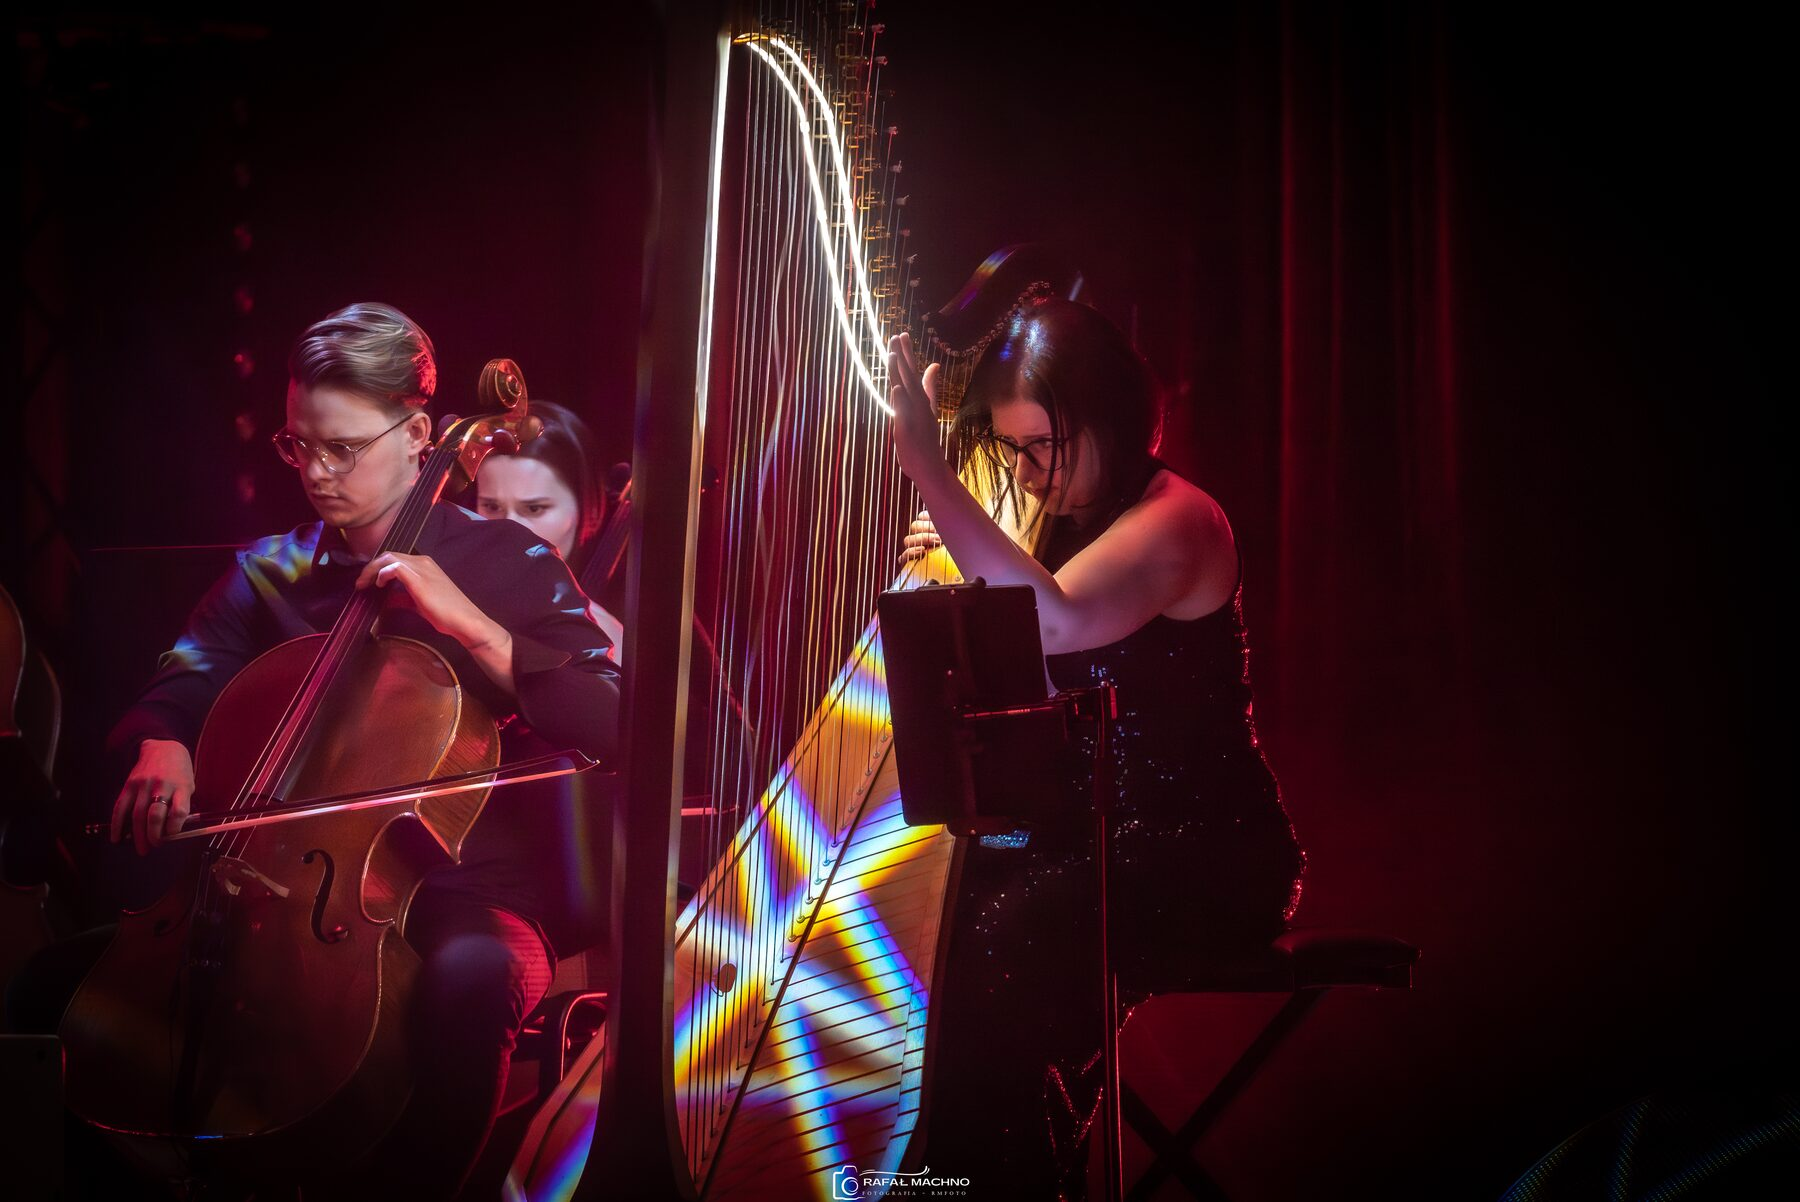
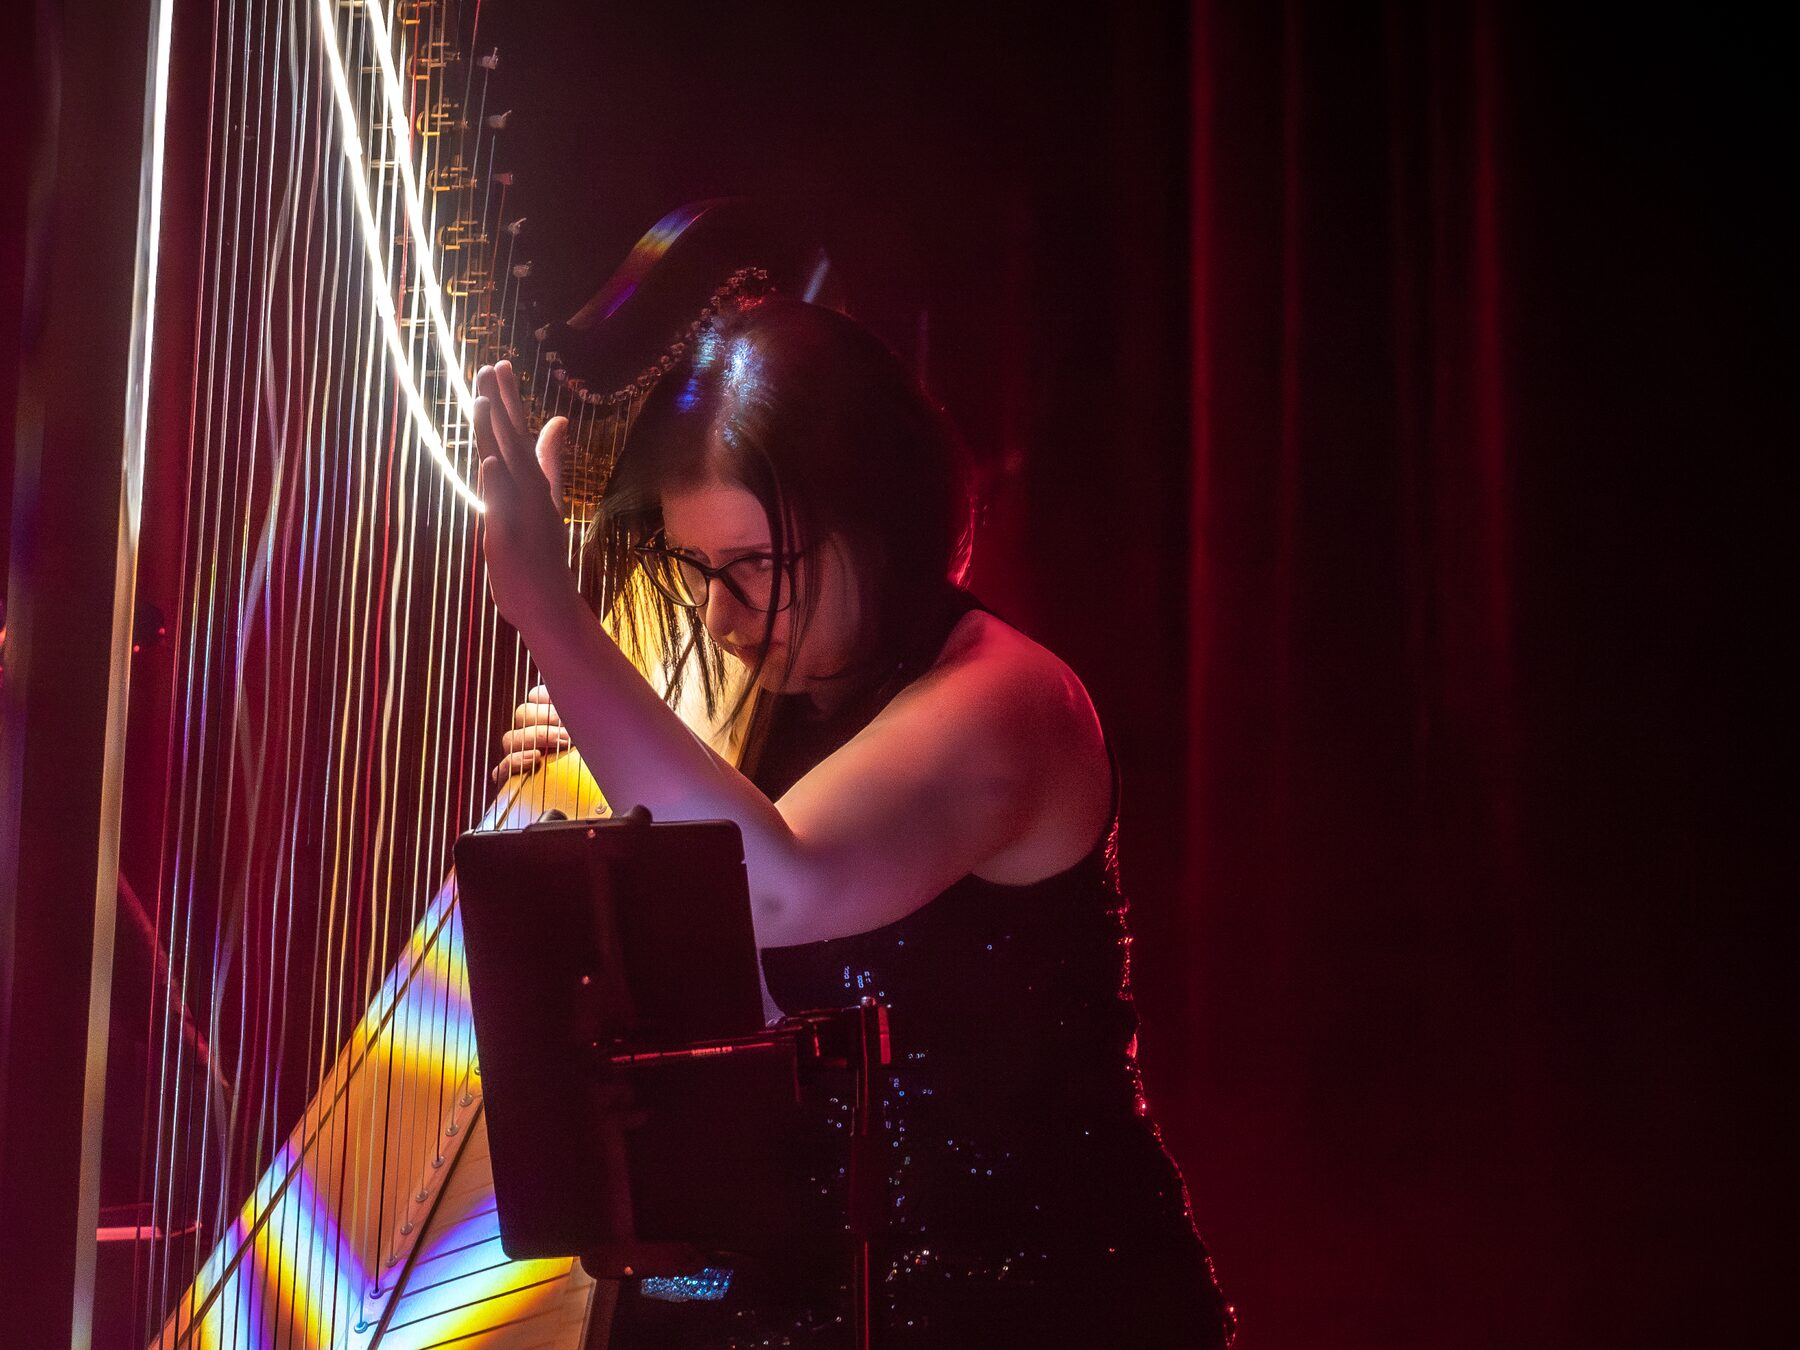
Crop Aneta's photo, new About/Gallery/Video backgrounds and Cavatina Hall video
- Aneta: DSC_2385 cropped to remove the cellist
- Backgrounds: About DSC_2591, Gallery DSC_4941, Video DSC_3321
- Videos: add Colours of Tango & Orchestra, 21.12.2025 Cavatina Hall Bielsko-Biala
- Remove now-unused 4908.jpg, 72272.jpg and 2550.jpg

Claude-Session: https://claude.ai/code/session_01Nq4AEGZ2gLUQEzHw4zn18e

diff --git a/src/pages/gallery.jsx b/src/pages/gallery.jsx
@@ -66,10 +66,10 @@ const Gallery = ({ data }) => {
       {/* BACKGROUND  */}
       <div className="w-full fixed  top-0 right-0">
         <StaticImage
-          src="../assets/pictures/72272.jpg"
+          src="../assets/pictures/4941.jpg"
           alt="main room"
           className="fixed w-full h-screen -z-[2]"
-          objectPosition={`${isAboveMediumScreens ? "0% 0%" : "31% 0%"}`}
+          objectPosition={`${isAboveMediumScreens ? "0% 0%" : "68% 50%"}`}
         />
         <motion.div
           className="fixed left-0 top-0 w-full h-screen bg-gradient-layout-darker z-0"

diff --git a/src/data/videoData.jsx b/src/data/videoData.jsx
@@ -3,7 +3,15 @@ import tn2 from "../assets/pictures/tn2.png";
 import tn3 from "../assets/pictures/tn3.png";
 import tn4 from "../assets/pictures/tn4.png";
 import tn5 from "../assets/images/orchester4.jpg";
+import tn6 from "../assets/pictures/tn6.jpg";
 export const videoData = [
+  {
+    id: 6,
+    author: "Colours of Tango & Orchestra",
+    title: "21.12.2025 Cavatina Hall Bielsko-Biała",
+    url: "https://www.youtube.com/watch?v=wOw447RL8sw",
+    thumbnail: tn6,
+  },
   {
     id: 5,
     author: "Colours of Tango",

diff --git a/src/pages/video.jsx b/src/pages/video.jsx
@@ -60,7 +60,7 @@ const Video = () => {
       {/* BACKGROUN */}
       <div className="h-screen w-full fixed left-0 top-0 -z-[2]">
         <StaticImage
-          src="../assets/pictures/2550.jpg"
+          src="../assets/pictures/3321.jpg"
           alt="main room"
           className="h-screen"
           objectPosition={`${isAboveMediumScreens ? "right center" : "40% 50%"}`}

diff --git a/src/pages/about.jsx b/src/pages/about.jsx
@@ -66,7 +66,7 @@ const About = () => {
       {/* BACKGROUND  */}
       <div className="fixed overflow-hidden top-0 right-0 w-full">
         <StaticImage
-          src="../assets/pictures/4908.jpg"
+          src="../assets/pictures/2591.jpg"
           alt="Colours of Tango on stage"
           className="fixed w-full h-screen -z-[2]"
         />
